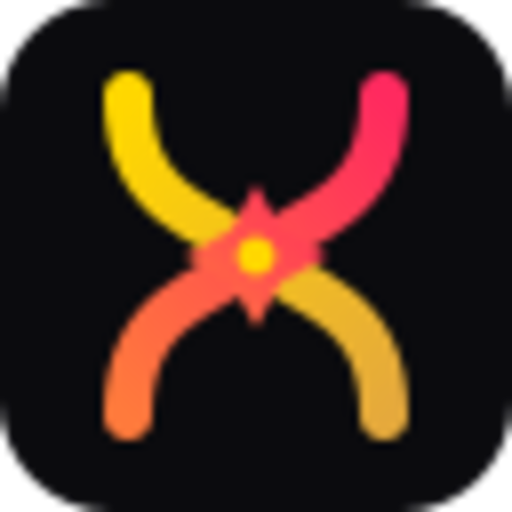
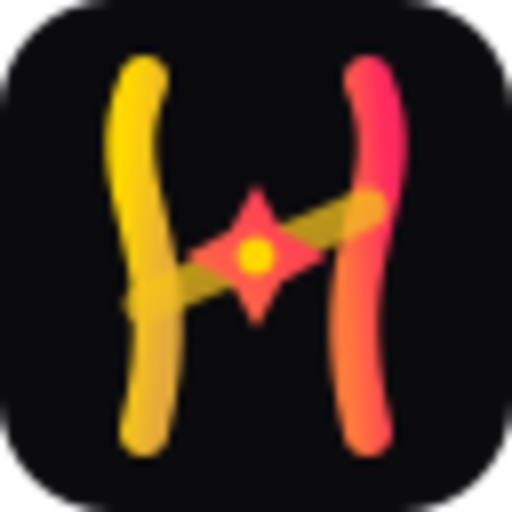
Changes

Changed region(s): [[0.1875, 0.0938, 0.4688, 0.9062], [0.5312, 0.0938, 0.8125, 0.9062]]

diff --git a/src/components/hotmatch/HotMark.tsx b/src/components/hotmatch/HotMark.tsx
@@ -37,25 +37,25 @@ export function HotMark({
 
       {/* haste fluída esquerda -> cruza para a direita */}
       <path
-        d="M14 8C14 24 26 26 32 32c6 6 18 8 18 24"
+        d="M18 9c-6 14 6 20 0 46"
         stroke={`url(#${gold})`}
         strokeWidth={strokeWidth}
         strokeLinecap="round"
       />
       {/* haste fluída direita -> cruza para a esquerda */}
       <path
-        d="M50 8c0 16-12 18-18 24-6 6-18 8-18 24"
+        d="M46 9c6 14-6 20 0 46"
         stroke={`url(#${hot})`}
         strokeWidth={strokeWidth}
         strokeLinecap="round"
       />
       {/* travessão do H */}
       <path
-        d="M20 32h24"
+        d="M18 38c8-4 20-8 28-12"
         stroke={`url(#${gold})`}
-        strokeWidth={strokeWidth - 2}
+        strokeWidth={strokeWidth - 1}
         strokeLinecap="round"
-        opacity="0.55"
+        opacity="0.75"
       />
       {/* faísca central de conexão */}
       <path
